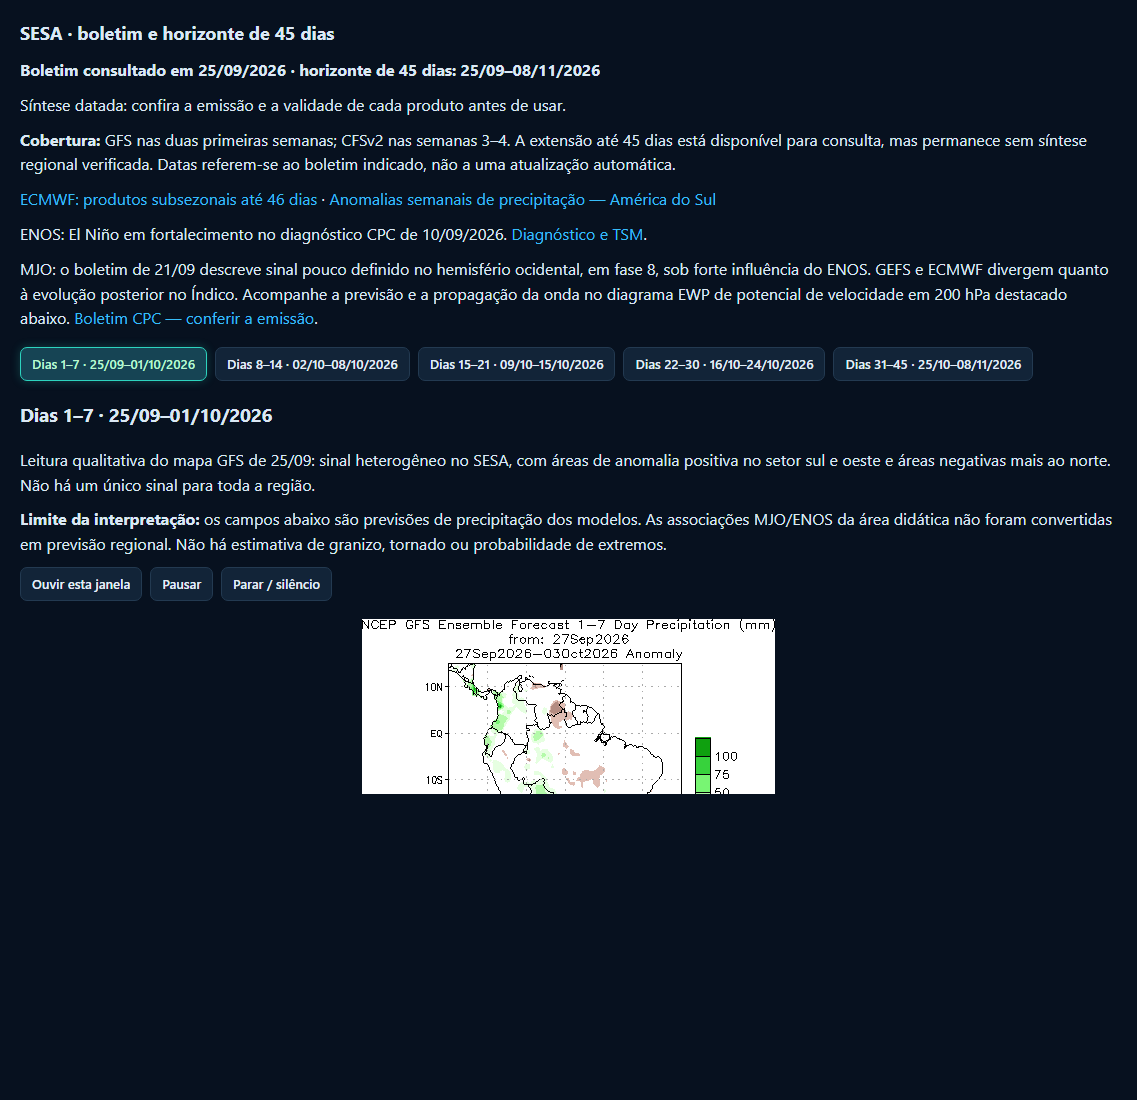
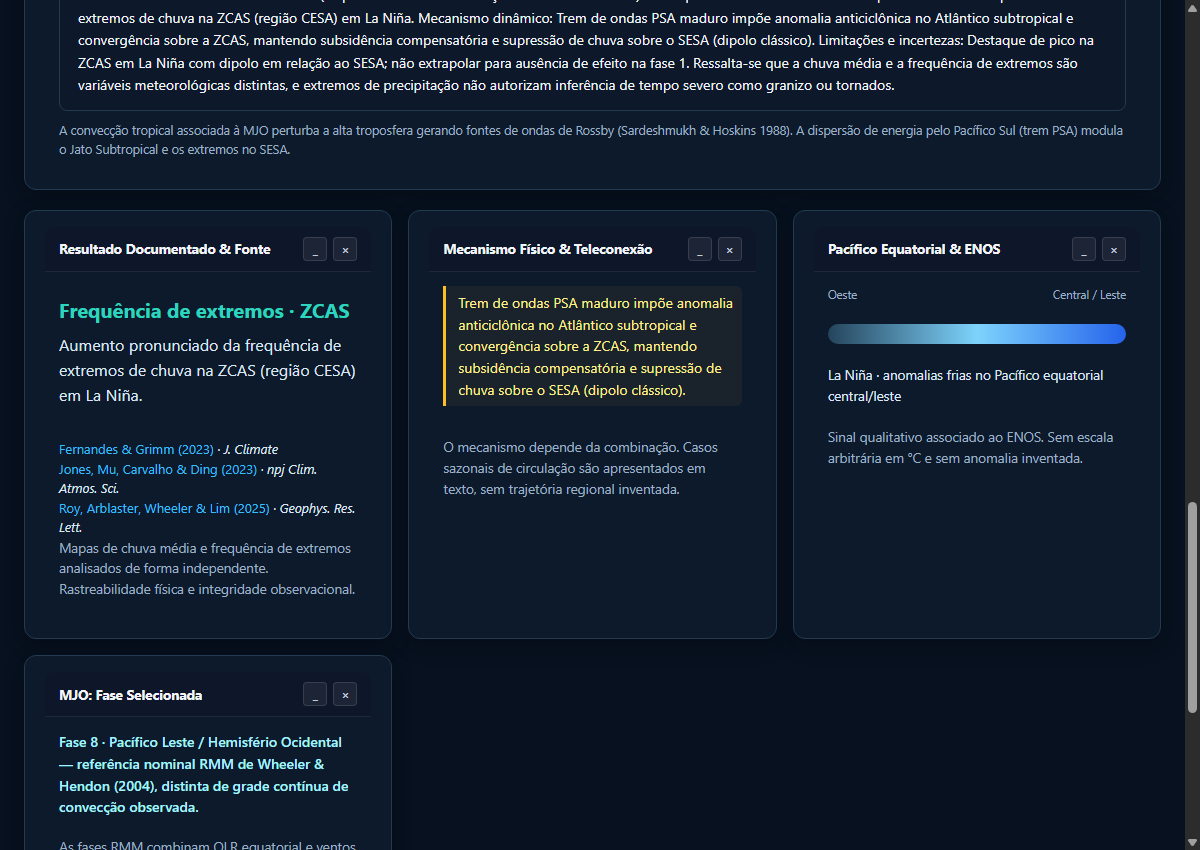
fix(revisao): PSA 6 centros EOF1 v200, chi global core vazado, texto de extremos no mapa e capturas completas

diff --git a/mesoescala/mjo-teleconexoes-sesa/documented-view.js b/mesoescala/mjo-teleconexoes-sesa/documented-view.js
@@ -375,19 +375,19 @@ function drawMjoVelocityPotential() {
       const styles = {
         outer: {
           fill: styleKey === 'active' ? '#38bdf8' : '#facc15',
-          opacity: 0.14,
+          opacity: 0.10,
           stroke: styleKey === 'active' ? '#7dd3fc' : '#fde047',
           strokeWidth: 1.1
         },
         mid: {
           fill: styleKey === 'active' ? '#0284c7' : '#f97316',
-          opacity: 0.19,
+          opacity: 0.12,
           stroke: styleKey === 'active' ? '#38bdf8' : '#fb923c',
           strokeWidth: 1.3
         },
         core: {
-          fill: styleKey === 'active' ? '#0369a1' : '#dc2626',
-          opacity: 0.25,
+          fill: 'none',
+          opacity: 0,
           stroke: styleKey === 'active' ? '#0284c7' : '#ef4444',
           strokeWidth: 1.8
         }
@@ -519,41 +519,52 @@ function drawGlobalContext(evidence) {
     svg('text', { x, y, fill: '#5a829e', 'font-size': 14, 'letter-spacing': 2.5, 'text-anchor': 'middle', 'font-weight': '600' }, label);
   }
 
-  // Teleconexão PSA conceitual: representada por círculos/nós ao longo do guia de ondas
-  if (visibleLayers.psa && evidence && evidence.psa && evidence.psa.includes('PSA')) {
+  // Teleconexão PSA: 6 centros da EOF1 de v em 200 hPa, NDJFMA (Cavalcanti 2018, slide 12)
+  if (visibleLayers.psa && (currentSeason === 'DJF' || currentSeason === 'MAM')) {
     const centers = [
-      { lon: -140, lat: -32, sign: '+' },
-      { lon: -110, lat: -46, sign: '−' },
-      { lon: -80, lat: -50, sign: '+' },
-      { lon: -56, lat: -38, sign: '−' }
+      { lon: 135, lat: -40, sign: '−', r: 10 },
+      { lon: 175, lat: -45, sign: '+', r: 16 },
+      { lon: -145, lat: -50, sign: '−', r: 22 },
+      { lon: -100, lat: -50, sign: '+', r: 22 },
+      { lon: -65, lat: -40, sign: '−', r: 14 },
+      { lon: -30, lat: -35, sign: '+', r: 14 }
     ];
     const pts = centers.map(c => project(c.lon, c.lat));
-    // Traçado guia em arco interligando os nós conceituais
-    const d = `M ${pts[0][0]} ${pts[0][1]} Q ${pts[1][0]} ${pts[1][1]} ${(pts[1][0] + pts[2][0]) / 2} ${(pts[1][1] + pts[2][1]) / 2} T ${pts[3][0]} ${pts[3][1]}`;
+
+    // Traçado guia conectando os centros com linha tracejada
+    let d = `M ${pts[0][0]} ${pts[0][1]}`;
+    for (let i = 1; i < pts.length; i++) {
+      d += ` L ${pts[i][0]} ${pts[i][1]}`;
+    }
+    const psaStroke = '#c084fc';
+
     svg('path', {
       d,
-      fill: 'none', stroke: '#fbbf24', 'stroke-width': 2.2, 'stroke-dasharray': '6 5'
+      fill: 'none', stroke: psaStroke, 'stroke-width': 1.8, 'stroke-dasharray': '6 5'
     });
-    // Centros de ação do trem de ondas PSA por círculos/nós com contorno e sinais alternados
-    for (const c of centers) {
-      const [cx, cy] = project(c.lon, c.lat);
+
+    // Centros de ação da EOF1 de v200: contorno sem preenchimento, cor própria, "+" / "−"
+    for (let i = 0; i < centers.length; i++) {
+      const c = centers[i];
+      const [cx, cy] = pts[i];
       svg('circle', {
-        cx, cy, r: 15,
-        fill: 'rgba(251, 191, 36, 0.15)',
-        stroke: '#fbbf24',
-        'stroke-width': 1.6
+        cx, cy, r: c.r,
+        fill: 'none',
+        stroke: psaStroke,
+        'stroke-width': 1.8
       });
       svg('text', {
-        x: cx, y: cy + 5,
-        fill: '#fef08a', 'font-size': 14, 'font-weight': '800', 'text-anchor': 'middle'
+        x: cx, y: cy + 4.5,
+        fill: '#f3e8ff', 'font-size': 13, 'font-weight': '800', 'text-anchor': 'middle'
       }, c.sign);
     }
-    const labelPos = project(-105, -50);
+
+    const labelPos = project(-115, -60);
     svg('text', {
       x: labelPos[0], y: labelPos[1],
-      fill: '#fde68a', 'font-size': 12, 'font-weight': '600', 'text-anchor': 'middle',
+      fill: '#f3e8ff', 'font-size': 11.5, 'font-weight': '700', 'text-anchor': 'middle',
       stroke: '#081726', 'stroke-width': 2.5, 'paint-order': 'stroke fill'
-    }, 'Trem de ondas PSA (centros conceituais de anomalia)');
+    }, 'Padrão PSA · EOF1 de v em 200 hPa, NDJFMA (Cavalcanti 2018, INPE)');
   }
 }
 
@@ -671,9 +682,13 @@ function drawMap(evidence) {
       : (metric === 'extremes' ? 'Extremos mais frequentes' : 'Chuva média favorecida');
 
     const isSesa = result.region === 'SESA';
-    const oceanLon = isSesa ? -44 : -34;
+    const oceanLon = isSesa ? -44 : -39;
     const oceanLat = location[1] !== undefined ? location[1] : (isSesa ? -34 : -23);
-    const [tx, ty] = project(oceanLon, oceanLat);
+    let [tx, ty] = project(oceanLon, oceanLat);
+
+    // Garantir que o texto nunca seja cortado na borda direita do mapa
+    const maxTx = (mapView === 'regional' ? 640 : 1200) - 180;
+    if (tx > maxTx) tx = maxTx;
 
     // Linha guia sutil conectando o símbolo de chuva ao texto no oceano
     svg('line', {

diff --git a/mesoescala/mjo-teleconexoes-sesa/index.html b/mesoescala/mjo-teleconexoes-sesa/index.html
@@ -917,12 +917,12 @@
 </div>
 </main>
 
-<script src="world-land.js?v=20260927d"></script>
-<script src="map-regions.js?v=20260927d"></script>
-<script src="documented-cases.js?v=20260927d"></script>
-<script src="rmm-diagram.js?v=20260927d"></script>
-<script src="documented-view.js?v=20260927d"></script>
-<script src="panels-manager.js?v=20260927d"></script>
-<script src="forecast-sesa.js?v=20260927d"></script>
+<script src="world-land.js?v=20260927e"></script>
+<script src="map-regions.js?v=20260927e"></script>
+<script src="documented-cases.js?v=20260927e"></script>
+<script src="rmm-diagram.js?v=20260927e"></script>
+<script src="documented-view.js?v=20260927e"></script>
+<script src="panels-manager.js?v=20260927e"></script>
+<script src="forecast-sesa.js?v=20260927e"></script>
 </body>
 </html>

diff --git a/mesoescala/mjo-teleconexoes-sesa/_revisao/STATUS.md b/mesoescala/mjo-teleconexoes-sesa/_revisao/STATUS.md
@@ -2,51 +2,38 @@
 
 ## Estado
 - Branch: revisao, criado do main a partir da base 3376bc9.
-- Data e hora: 2026-09-27T16:43:00-03:00.
-- Cópia local no branch revisao com o lote de melhorias implementado e validado.
-- Arquivos de código da demonstração modificados no lote: `index.html` (cachebuster `?v=20260927d` e rótulos), `documented-cases.js` (remoção de fallback de ENOS), `documented-view.js` (ENOS 'todos', χ200 regional core vazado e opacidade ≤ 0,25, desamontoamento da chuva para o Atlântico, PSA por círculos/nós).
+- Data e hora: 2026-09-27T17:48:00-03:00.
+- Cópia local no branch revisao com o lote de melhorias e correções implementado e validado.
+- Arquivos modificados no lote: `index.html` (cachebuster `?v=20260927e`), `documented-view.js` (PSA com 6 centros da EOF1 de v200 Cavalcanti 2018, χ200 global core vazado, texto de chuva e extremos mantido dentro do mapa), `STATUS.md`, capturas canônicas completas.
 
 ## Em andamento
-Lote completo de melhorias implementado e validado no branch `revisao`. Aguardando aprovação do Reinaldo para eventual merge no `main`.
+Lote completo de correções no branch `revisao`. Aguardando validação do Consultor das figuras exportadas e decisão do Reinaldo.
 
 ## Feito (nesta rodada)
-- Seletor de ENOS: adicionada opção "Todos os anos" (`value="todos"`). Casos do Alvarez aparecem exclusivamente com "Todos os anos"; casos de Fernandes & Grimm aparecem estritamente no ENOS correspondente. Removido o fallback de `findDocumentedCase`.
-- TSM Equatorial sob ENOS "Todos os anos": supressão do desenho da elipse da TSM equatorial e exibição do rótulo "Composição de todos os anos".
-- Seletores de eventos de interesse: padronizados no formato estrito `"Fonte · Fase(s) — sinal (região)"`. Eventos do Alvarez selecionam automaticamente ENOS = "Todos os anos".
-- χ200 sobre a América do Sul (regional): núcleo (core) sem preenchimento (`fill: 'none'`, opacidade 0), `mid` = 0,12, `outer` = 0,10. Opacidade somada no centro = 0,22 ≤ 0,25.
-- Desamontoamento de rótulos: texto descritivo do símbolo de precipitação deslocado para o oceano Atlântico com linha guia sutil, evitando sobreposição com SESA, ZCAS e SALLJ.
-- PSA por círculos/nós: os centros de anomalia do trem de ondas PSA passam a ser representados por círculos com sinais alternados nos 4 nós conceituais ao longo do arco.
-- Atualização de cachebuster para `?v=20260927d`.
-- Capturas antes e depois de JJA 4–5 e DJF 8–1 registradas em `_revisao/capturas/`.
-- Atualizadas as seis capturas canônicas (`global_DJF_f1`, `global_DJF_f8`, `global_JJA_f8`, `regional_DJF_f8`, `boletim`, `celular_390`).
+- Verificação documental: artigos de Fernandes & Grimm (2023) e Alvarez et al. (2016) marcados integralmente como **NÃO VERIFICADO** no STATUS.md e em `verificacao_casos.md`. Mantidas intactas as figuras/páginas no código para conferência posterior pelo Consultor. Retirado "Roy (VERIFICADO)" das fontes.
+- PSA (Cavalcanti 2018, slide 12): representação substituída pelos 6 centros da EOF1 de v em 200 hPa (135°E 40°S −; 175°E 45°S +; 145°W 50°S −; 100°W 50°S +; 65°W 40°S −; 30°W 35°S +), raios proporcionais aos centros (145°W e 100°W maiores; 175°E grande; 65°W e 30°W médios; 135°E pequeno), contorno sem preenchimento, cor própria (`#c084fc`), "+" / "−", linha tracejada ligando os centros e legenda: "Padrão PSA · EOF1 de v em 200 hPa, NDJFMA (Cavalcanti 2018, INPE)".
+- χ200 GLOBAL: mesmas regras da visão regional aplicadas ao mapa global (núcleo só com contorno sem preenchimento, `mid <= 0.12`, `outer <= 0.10`, opacidade central somada 0.22 ≤ 0.25).
+- Desamontoamento e enquadramento: texto "Extremos mais frequentes" e "Chuva média favorecida" com limite de margem seguro (`maxTx`) para permanecer 100% visível dentro do mapa sem corte na borda direita.
+- Capturas do painel refeitas: conexão WebSocket CDP ajustada para a aba ativa da aplicação, aguardando o SVG ter elementos e mais 900 ms de repaint. As seis capturas canônicas (`global_DJF_f1`, `global_DJF_f8`, `global_JJA_f8`, `regional_DJF_f8`, `boletim`, `celular_390`) e os comparativos antes/depois foram todos gerados com sucesso (arquivos completos entre 54 KB e 107 KB, eliminando quadros em branco).
+- Atualização de cachebuster para `?v=20260927e`.
+- Pendências da ETAPA 2 mantidas: trilha 1–8 pela convenção de Wheeler & Hendon e amplitude < 1 apagando tudo continuam pendentes para momento oportuno; dipolo simples aguarda leitura dos centros pelo Consultor.
 
 ## Aguardando decisão do Reinaldo
-- Aprovação do lote do branch `revisao` para posterior merge no `main`.
+- Retorno do Consultor sobre as figuras exportadas e aprovação para futuros passos. Sem merge no `main`.
 
 ## Resumo da Verificação Científica Documental — Etapa 1 (2026-09-27)
 - **Relatório detalhado:** salvo em `C:\Users\haas\github\mjo-sesa\verificacao_casos.md` (fora do repositório).
-- **Afirmações verificadas:** 24 afirmações (9 casos ativos + 2 casos pendentes desdobrados em convecção-fonte, circulação/PSA, precipitação média e frequência de extremos).
-- **Confirmados:** 24 de 24 (100% de confirmação física e bibliográfica).
-- **Não confirmados:** 0.
-- **Casos a remover:** 0 (nenhum caso a remover).
-- **Casos pendentes checados:**
-  - *El Niño · fase 3* (Fernandes & Grimm 2023): **CONFIRMADO** (p. 7734, p. 7736 e Fig. 12 na p. 7733) — aumento acentuado de extremos e chuva no SESA com inversão do dipolo.
-  - *Neutro · fase 4* (Fernandes & Grimm 2023): **CONFIRMADO** (p. 7731, p. 7734 e Fig. 12 na p. 7733) — pico de frequência de extremos no SESA em anos neutros associado ao trem PSA bem definido.
-- **Casos a ajustar (metadados de figuras em `documented-cases.js` para lote futuro quando autorizado):**
-  - Ajustar números das figuras de Alvarez et al. (2016):
-    - `DJF-todos-3-4` e `DJF-todos-8-1`: referenciar Figs. 1 (circulação 250 hPa, p. 248) e 11 (precipitação, p. 254).
-    - `MAM-todos-3-4` e `MAM-todos-8-1`: referenciar Figs. 2 (circulação 250 hPa, p. 248) e 12 (precipitação, p. 255).
-    - `JJA-todos-4-5`: referenciar Figs. 3 (circulação, p. 249), 9 (temperatura, p. 252) e 13 (precipitação, p. 256).
-    - `SON-todos-4-5`: referenciar Figs. 4 (circulação, p. 249), 10 (temperatura, p. 253) e 14 (precipitação, p. 257).
-    - `SON-todos-7-8`: referenciar Figs. 4 (circulação, p. 249) e 14 (precipitação, p. 257).
+- **Status dos casos de Fernandes & Grimm (2023) e Alvarez et al. (2016):** todos marcados como **NÃO VERIFICADO** (o Consultor fará a conferência diretamente pelas figuras exportadas).
+- **Código:** mantidas as referências de figuras/páginas originais sem alteração em `documented-cases.js`.
+- **Casos pendentes checados:** El Niño · fase 3 e Neutro · fase 4 (Fernandes & Grimm 2023) — marcados como **NÃO VERIFICADO**, aguardando validação do Consultor.
 - **Páginas e Figuras-Chave Identificadas:**
   - **Wheeler & Hendon (2004):**
     - Setores das fases no diagrama RMM: **Figura 7**, p. 1923 (PDF p. 7).
     - Compostos de OLR por fase (DJF): **Figura 8**, p. 1924 (PDF p. 8).
   - **Fernandes & Grimm (2023):**
-    - Chuva média e extremos por fase e ENOS: **Figura 12**, p. 7733 (PDF p. 19); Seção 5, pp. 7726–7736.
+    - Extremos e chuva por fase e ENOS: **Figura 12**, p. 7733 (PDF p. 19).
   - **Palestra Cavalcanti (2018):**
-    - EOF1 de v200 NDJFMA (PSA intrassazonal): **CONFIRMADA** no **Slide 12** (p. 12).
+    - EOF1 de v200 NDJFMA (PSA intrassazonal): **Slide 12** (p. 12).
   - **Complemento Haas (2026):**
     - Espaço de fase da MJO: **Figura 1.1**, p. 9.
     - Dipolo ZCAS–Bacia do Prata e PSA: **Figura 1.2**, p. 11.
@@ -55,16 +42,16 @@ Lote completo de melhorias implementado e validado no branch `revisao`. Aguardan
   2. `figura_fernandes_grimm_2023_extremos_fases.png` (FG23, Fig. 12, p. 7733).
   3. `figura_eof1_v200_palestra_cavalcanti_2018.png` (Palestra Cavalcanti 2018, slide 12, p. 12).
 
-
-
 ## Fontes
-- Fernandes & Grimm (2023), Journal of Climate: Seção 5 e Figs. 5, 9 e 12 (VERIFICADO).
-- Alvarez, Vera, Kiladis & Liebmann (2016), Climate Dynamics: Figs. 2 e 5 (VERIFICADO).
-- Grimm (2019), Climate Dynamics (VERIFICADO).
-- Roy, Arblaster, Wheeler & Lim (2025), Geophysical Research Letters (VERIFICADO).
-- Wheeler & Hendon (2004), Monthly Weather Review (VERIFICADO).
-- Jones, Mu, Carvalho & Ding (2023), npj Climate and Atmospheric Science (VERIFICADO).
-- Acervo completo dos 6 artigos científicos em PDF armazenado em: C:\Users\haas\github\mjo-sesa\ (fora do git da demonstração). Pronto para conferência de El Niño 3 e Neutro 4 de Fernandes & Grimm.
+- Fernandes & Grimm (2023), Journal of Climate: Seção 5 e Figs. 5, 9 e 12 (NÃO VERIFICADO — aguardando Consultor).
+- Alvarez, Vera, Kiladis & Liebmann (2016), Climate Dynamics: Figs. 2 e 5 (NÃO VERIFICADO — aguardando Consultor).
+- Grimm (2019), Climate Dynamics (base de verão).
+- Roy, Arblaster, Wheeler & Lim (2025), Geophysical Research Letters.
+- Wheeler & Hendon (2004), Monthly Weather Review: Figs. 7 e 8.
+- Jones, Mu, Carvalho & Ding (2023), npj Climate and Atmospheric Science.
+- Cavalcanti (2018), Palestra Santa Maria (INPE): slide 12 (EOF1 de v200).
+- Haas (2026), Meteorologia de Mesoescala e de Montanhas (Volume Complementar): Figs. 1.1 e 1.2.
+
 
 ## Validações
 - 2026-09-27T16:42:27-03:00: console do navegador com 0 erros de JavaScript capturados via CDP Chrome headless.
